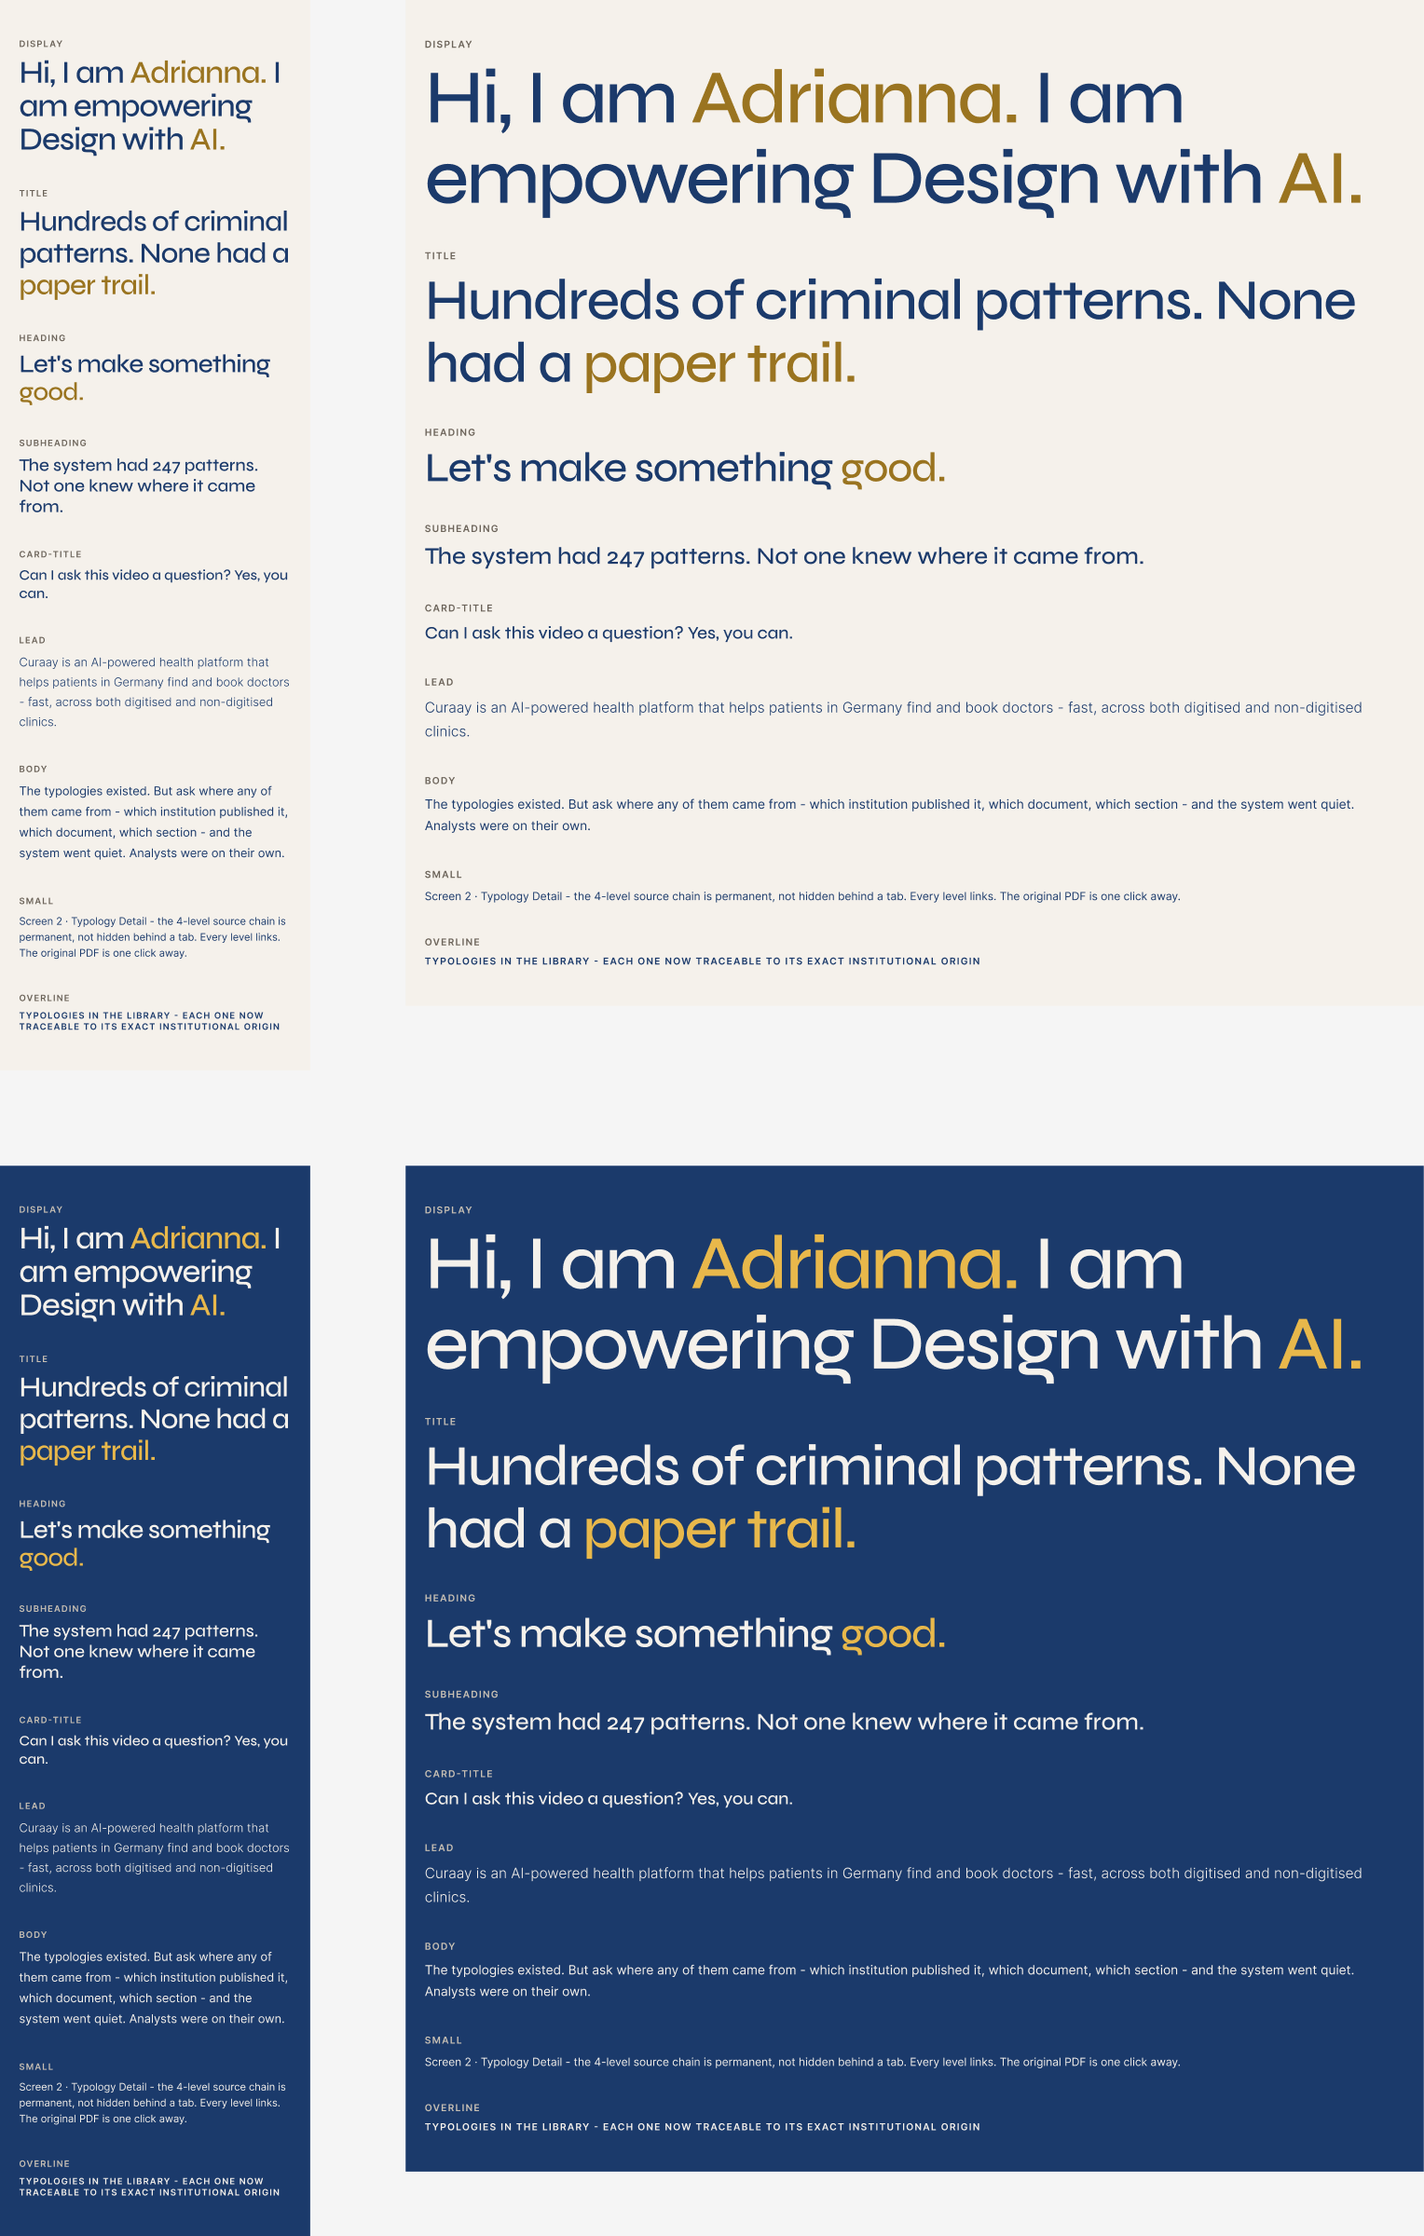
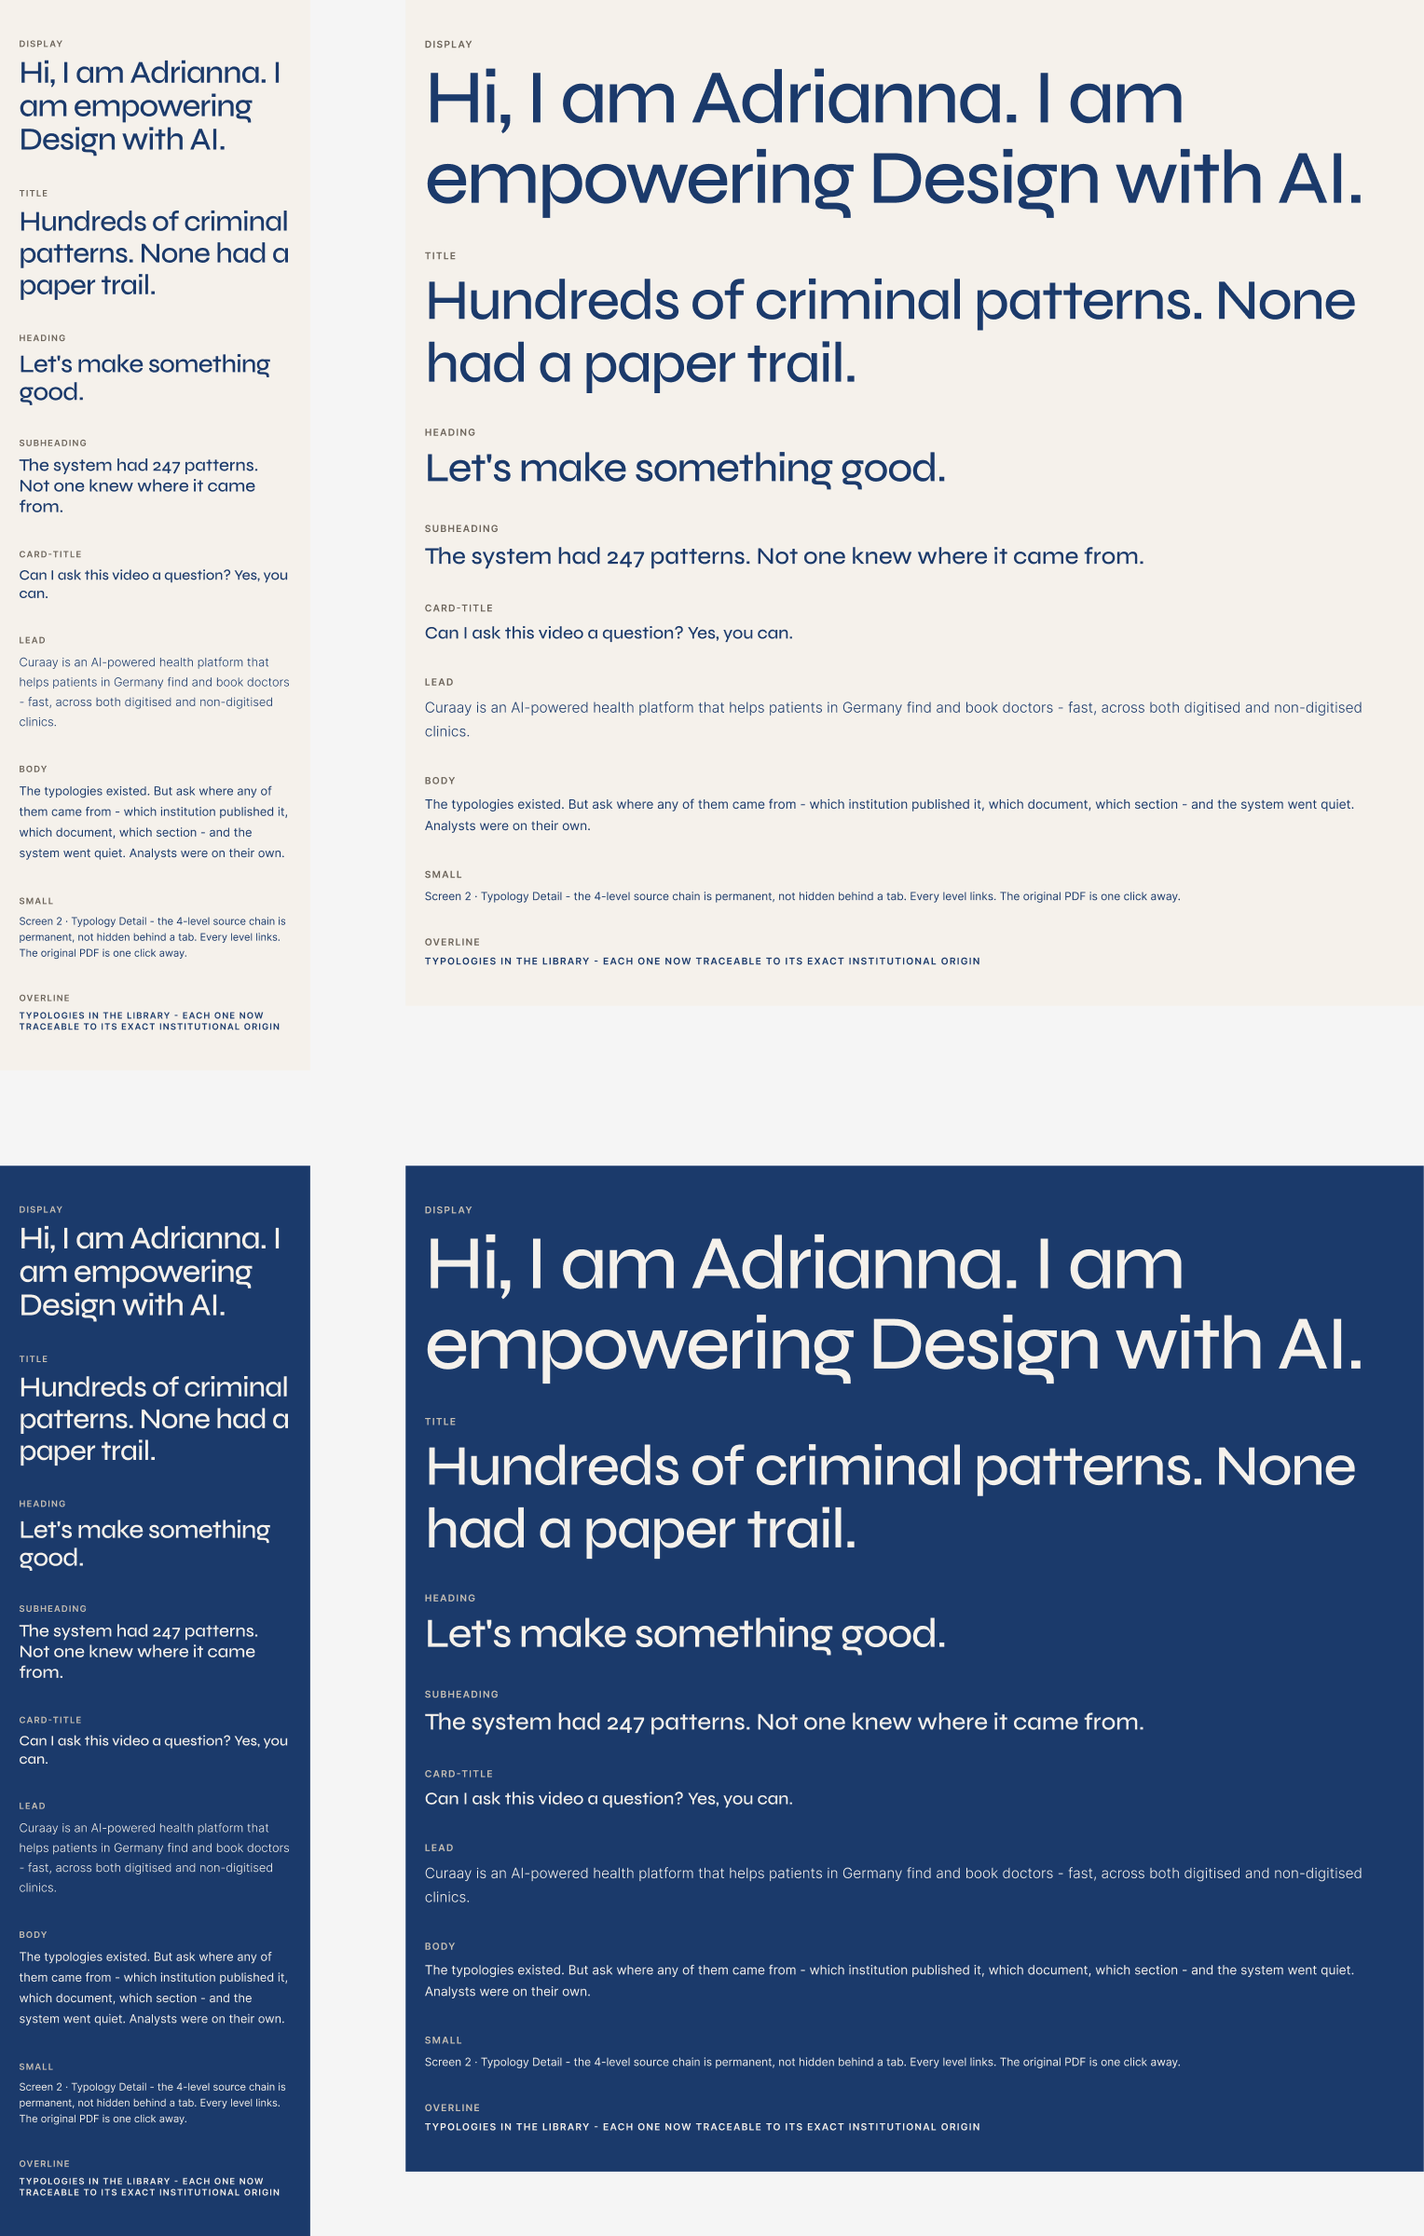
Report B-005: Type check without gold, Button measurements and proposal

diff --git a/REPORT.md b/REPORT.md
@@ -1,46 +1,148 @@
-# B-004 · Report
+# B-005 · Report
 
-## Commit on `figma/modes` (pushed, not merged)
+## 1. Type check page without gold: done
 
-`9844140` "Rebuild the Figma Type check page from the typography script": `scripts/build-figma-type.js`, the generated `tokens/figma/typography-collection.js`, and one sentence in the README procedure (step 4 now says it rebuilds the page).
+- `figma/modes` pulled: `DECISIONS.md` ends with decision 51.
+- `59261c7` on `figma/modes` (pushed, not merged): the specimen samples no longer carry emphasis words; every sample is in `color/text`. The emphasis checks are gone with them; a role without specimen text still fails the build. Build passes.
+- Script run on the Figma file: 0 variables and 0 styles created, page rebuilt with the same four frames.
+- Screenshot: [`type-check.png`](type-check.png) (replaced on this branch). No gold anywhere on the page, light or dark.
 
-## What changed
+## 2. Button: measurements
 
-- **The page is part of the typography script** (decision 44). Each run of `typography-collection.js` writes the collection and the text styles as before, then clears the "Type check" page and builds it again. Run on the Figma file: 0 variables and 0 styles created (all existed), page rebuilt.
-- **Four frames:** `Mobile · Light surface` (390px) and `Desktop · Light surface` (1280px) on `color/background` in color mode "Light surface"; `Mobile · Dark surface` and `Desktop · Dark surface` on `color/surface-dark` in "Dark surface". Each frame also sets its typography mode.
-- **Each role:** its name in the `overline` style and `color/text-muted`, then the sample in the role's style and `color/text`. In display, title and heading, the gold words are `color/text-emphasis`, upright (decisions 28 and 47). All fills are bound to the colour roles, so they switch with the mode: on the dark frames the text is sand, the label sand-400, the gold gold-500.
-- **Build checks added:** the build fails if a role has no specimen text, if an emphasis word isn't in its text, or if emphasis is set on a role other than display, title and heading.
+Measured on `adriadi/portfolio` at `before-system` (`f143a85`): CSS read from `styles.css` and every `<style>` block, sizes measured in Chrome at 1280px and 390px. The case studies are password-gated, so the case-study button is computed from its CSS. Every button and nav link on the site uses Inter.
 
-Read back from Figma: every sample wraps to at least two lines in both Mobile frames (display 3, title 3, heading 2, subheading 3, card-title 2, lead 4, body 4, small 3, overline 2), and every fill is bound to the expected role.
+### Buttons and links in use
 
-## Screenshot
+| Element | Where | Tag | Height | Padding | Font | Letter spacing | Case | Radius | Colours |
+| --- | --- | --- | --- | --- | --- | --- | --- | --- | --- |
+| `.btn-primary` "View my work" | home hero | `a` | 50 | 16 / 36 | 15 / 500 | 0.06em | upper | pill | navy fill, white text (inline style) |
+| `.btn-secondary` "Get in touch" | home hero | `a` | 21.5 | 0 0 2 | 15 / 500 | 0.06em | upper | none | navy text, 1.5px gold underline |
+| `.nav-cta` "Let's talk" | top nav | `a` | 33.5 | 9 / 22 | 13 / 500 | 0.06em | upper | pill | navy fill, sand text |
+| `.nav-cta-mobile` | mobile menu | `a` | 45 | 14 / 0 | 14 / 500 | 0.06em | upper | pill | navy fill, sand text, full width |
+| `.btn-outline-light` "Schedule a call" | experience (navy section) | `a` | 48 | 14 / 32 | 14 / 500 | 0.06em | upper | pill | 1.5px white 25% border, white text |
+| `.form-submit` "Send message →" | contact form | `button` | 45 | 14 / 32 | 14 / 500 | 0.04em | none | **4px** | navy fill, sand text |
+| `.submit-btn` | password page | `button` | 49 | 16 | 14 / 500 | 0.06em | upper | **10px** | navy fill, sand text, full width |
+| `.prototype-btn` "View prototype" | Hawk case study | `a` | ≈52 (computed) | 14 / 28 | 14 / 500 | 0.04em | none | **4px** | `--accent`: #000078 on Hawk |
+| `.nav-links a` | top nav | `a` | 15.5 | 0 (36px gaps) | 13 / 500 | 0.04em | upper | none | muted text |
+| `.mobile-nav a` | mobile menu | `a` | 50 | 16 / 0 | 14 / 500 | 0.05em | upper | none | muted text, divider below |
+| `.nav-back` "←" | case-study nav | `a` | text | 0 | 13 / 400 | 0 | none | none | muted text |
 
-[`type-check.png`](type-check.png) on this branch (from `get_screenshot`, 1528 × 2400). Top row: light surface, Mobile and Desktop. Bottom row: dark surface.
+Defined but not used on any page: `.btn-accent` (gold fill, gold glow on hover), `.cv-modal-submit` (same, plus disabled).
 
-## Where each sample text came from
+### States
 
-All from `adriadi/portfolio`, branch `main` (`f143a85`), read with `git show`; the local working tree (on `test/before-2`) wasn't touched.
+| Element | Hover | Active | Focus | Disabled / loading | Transition |
+| --- | --- | --- | --- | --- | --- |
+| `.btn-primary` | lifts 2px, shadow 0 4 24 navy 20% → 0 8 32 navy 30%, arrow moves 3px | none | browser default | none | 0.2s |
+| `.btn-secondary` | gap between text and arrow 8 → 14px | none | browser default | none | 0.2s |
+| `.nav-cta` | navy-mid fill, lifts 1px | none | browser default | none | 0.2s bg, 0.15s transform |
+| `.btn-outline-light` | border to 60%, white 6% fill | none | browser default | none | 0.2s |
+| `.form-submit` | navy-mid fill, lifts 1px | none | browser default | while sending: `disabled`, opacity 0.65, text "Sending…" | 0.2s |
+| `.submit-btn` | navy-mid fill, lifts 1px | back to 0 | browser default | none | 0.2s, 0.15s |
+| `.prototype-btn` | opacity 0.85, moves 3px right | none | browser default | none | 0.2s |
+| `.nav-links a` | muted → navy | none | browser default | none | 0.2s colour |
+| `.btn-accent` (unused) | lifts 2px, **gold glow** 0 8 28 gold 40% | none | none | none | 0.2s |
 
-| Role | Text | Source |
+**Findings:**
+- No button or link has its own focus style. Every one shows Chrome's default blue ring (`auto 1px #005FCC`), on navy too.
+- Loading is never announced: "Sending…" replaces the label, with no live region.
+- Shadow at rest appears only on `.btn-primary` (the navy shadow). The gold glow is only on the two unused classes.
+- There are three button radii (pill, 4px, 10px); pill is the system's answer (decision 39).
+- `cursor: none` (the custom cursor) is set on `.form-submit`.
+
+## 2. Button: proposal
+
+Uses only existing tokens. Where none fits, the gap is named as a question.
+
+### Size
+
+- **One size for `primary` and `secondary`:** padding `space-4` (16px) top and bottom, `space-8` (32px) left and right, `min-height: space-12` (48px). That's close to what the site has (45–50px) and meets 44px (WCAG 2.5.5, AAA) with no visible change.
+- **The nav "Let's talk"** is today a small button (33.5px). See question 3.
+- **Type:** no type role fits button labels. See question 1.
+
+### Touch target
+
+| Target | Visual cost |
+| --- | --- |
+| 24px (2.5.8, AA) | None for any button. The nav links (15.5px tall) pass only through the 36px spacing exception. |
+| 44px (2.5.5, AAA) | None for the main buttons (already 45–50px). The nav button grows from 33.5 to 44+ px in a 64px nav, unless its hit area is extended without growing visually (question 3). Links need padding to reach 44px. |
+
+### States (all variants)
+
+| State | primary | secondary | link |
+| --- | --- | --- | --- |
+| default | `color-action` fill, `color-text-on-action` | `color-surface-highlight` fill, navy text (question 2) | `color-text-muted` |
+| hover | `color-action-hover` | missing role (question 4) | `color-text` |
+| focus | ring: `color-focus`, `focus.ring-width`, `focus.ring-offset` | same | same |
+| active | same as hover, no lift | same as hover | `color-text` |
+| disabled | question 5 | question 5 | not available: a link can't be disabled |
+| loading | question 6 | question 6 | not available |
+
+- **Transitions:** `duration-fast` (200ms) for colour, `easing-standard`.
+- **No movement on hover:** the site's lifts (1–3px translate) have no token, and decision 41 drops them under reduced motion anyway.
+
+### Shadow
+
+- **At rest:** none. Decision 40 says shadows appear on interaction, not at rest, so the navy rest shadow goes.
+- **On hover:** see question 4. On a dark surface a navy shadow is invisible, and the gold glow isn't a token.
+
+### The `link` variant
+
+- **Style:** the navigation link style: 13px, weight 500, uppercase, `color-text-muted`, then `color-text` on hover, no underline.
+- **How it differs from a link in body copy:** a body-copy link sits inside a sentence, keeps the text's case and size, and needs an underline. In the case studies, body links today are colour-only with an underline on hover, which is a WCAG 1.4.1 risk to fix with the text-link rule, not here.
+- **Target:** `min-height: space-6` (24px) through padding, so it passes AA on its own rather than through spacing.
+- **Focus:** the same ring as the other variants.
+
+### On a dark surface
+
+| Variant | What happens | Contrast |
 | --- | --- | --- |
-| display | Hi, I am **Adrianna.** I am empowering Design with **AI.** | `index.html`, home hero h1 (gold words as on the site) |
-| title | Hundreds of criminal patterns. None had a **paper trail.** | `usecases/hawk-case-study.html`, page title h1 |
-| heading | Let's make something **good.** | `index.html`, contact section h2 (gold word as on the site) |
-| subheading | The system had 247 patterns. Not one knew where it came from. | `usecases/hawk-case-study.html`, h3 |
-| card-title | Can I ask this video a question? Yes, you can. | `index.html`, article card title |
-| lead | Curaay is an AI-powered health platform that helps patients in Germany find and book doctors - fast, across both digitised and non-digitised clinics. | `usecases/curaay-case-study.html`, overview paragraph |
-| body | The typologies existed. But ask where any of them came from - which institution published it, which document, which section - and the system went quiet. Analysts were on their own. | `usecases/hawk-case-study.html`, overview paragraph |
-| small | Screen 2 · Typology Detail - the 4-level source chain is permanent, not hidden behind a tab. Every level links. The original PDF is one click away. | `usecases/hawk-case-study.html`, image caption |
-| overline | Typologies in the library - each one now traceable to its exact institutional origin | `usecases/hawk-case-study.html`, metric label |
+| primary | switches by itself: gold fill, navy text | 6.11:1 |
+| secondary | if its text used `color-text`, it would turn sand on the light fill: **1.07:1, fails** | needs a text colour that doesn't switch: navy on `surface-highlight` 9.32:1, fill vs navy section 9.32:1 |
+| link | muted → `sand-400`, hover → `sand-50` | 6.25:1 / 10.01:1 |
 
-Two notes on the choices:
-- **title:** on the site the gold part is "a paper trail." (three words). The brief allows one or two, so only "paper trail." is gold.
-- **overline:** the site's real eyebrows ("Overview", "The core gap") are too short to wrap on Mobile, so the sample is the Hawk metric label, which uses the same label style on the site.
+### HTML and class names
 
-## What to check, and where
-
-Figma, page **"Type check"**: line height per role (body at 170% against display at 105%), gold only in the first three roles, and the dark frames switching every colour.
+- `<a>` when it goes somewhere: "View my work", "Let's talk", "View prototype", "Schedule a call".
+- `<button>` when it does something: submit, open a modal.
+- Classes: `fds-button` plus a variant modifier, `fds-button--primary`, `fds-button--secondary` or `fds-button--link`.
+- States through native state and ARIA, not classes: `:hover`, `:focus-visible`, `:active`, `:disabled` / `[aria-disabled="true"]`, and loading as in question 6.
+- Text stays in sentence case in the HTML; uppercase comes from CSS (decision 51).
 
 ## Questions
 
-1. **Still open from B-003:** the design system page's generated token card (`project/api/tokens.md`, `project/tokens.css`) shows values from before the colour stage. Saving the page once should regenerate it; I recommend doing that before Figma part 2 is merged, and I'll read it back.
+1. **Button labels have no type role.** Buttons are 14–15px / 500 / 0.06em / uppercase, nav links 13px / 500 / 0.04em / uppercase. The 9 roles have no weight-500 Inter role, and none is uppercase except overline (11–12px / 600 / 0.12em).
+   - A: a tenth role, e.g. `label`, for button and link text, with its own size, weight 500, letter spacing 0.06em and `text-transform: uppercase` (values to be proposed in the next report).
+   - B: reuse `small` or `body` and override weight and case in the button CSS.
+   - **Recommendation: A.** B puts values outside the tokens, which the system forbids. Decision 51 already fixes 0.06em and uppercase; a role makes them tokens. The nav links' 0.04em would move to 0.06em, so there's one tracking for all controls.
+
+2. **`secondary` needs a text colour that doesn't switch on a dark surface.**
+   - A: a new role for text on `color-surface-highlight`, always navy (like `color-text-on-accent` for gold).
+   - B: reuse `color-text-on-accent` (navy everywhere), although it's named for gold fills.
+   - **Recommendation: A.** One role per pair keeps names honest, and the contrast check can test it on both surfaces.
+   - A related point: the secondary fill is nearly invisible on the light backgrounds (1.01–1.21:1). The label carries it, so WCAG passes, but it reads more as a tinted label than a button. Should it get a border? If yes, which role?
+
+3. **The nav button size.**
+   - A: one size everywhere: the nav button becomes 48px in the 64px nav.
+   - B: a small size: `min-height: space-8` (32px), padding `space-2` / `space-6`, meets AA only.
+   - C: small visually (32px), with the clickable area extended to 48px by a transparent pseudo-element, which meets AAA with no visual change.
+   - **Recommendation: C.** It keeps the nav as it looks today and still meets 44px.
+
+4. **Hover on a dark surface, and the secondary hover.**
+   - On dark, `color-action-hover-on-dark` is gold-500, the same as rest. Its description says the button lifts with a shadow, but a navy shadow is invisible on navy and the system has no lift token. So the dark primary has no visible hover.
+   - The secondary has no hover role at all.
+   - A: add hover roles: a lighter or darker gold for dark primary hover, and a hover fill for secondary (values to be proposed next).
+   - B: hover changes only the cursor and the arrow; no colour change.
+   - **Recommendation: A.** A visible hover on every surface is the expected behaviour, and two roles are what the site needs now.
+
+5. **Disabled.**
+   - The site uses opacity 0.6–0.65, which isn't a token. WCAG exempts disabled controls from contrast.
+   - A: an `opacity.disabled` token.
+   - B: disabled colour roles (fill and text).
+   - C: no disabled look: keep the button enabled and explain the problem in a message instead.
+   - **Recommendation: A**, with `aria-disabled` so it stays focusable and its reason can be read out. A single opacity value is the smallest new token, and it works on both surfaces.
+
+6. **Loading.**
+   - A: the label changes to a progress text ("Sending…"), the button gets `aria-disabled="true"`, and a `role="status"` region next to it announces the same text. No spinner.
+   - B: a spinner icon plus the same ARIA.
+   - **Recommendation: A.** It's what the site does, plus the announcement it's missing. A spinner is a looping animation (decision 42, WCAG 2.2.2) and would need a reduced-motion version.
